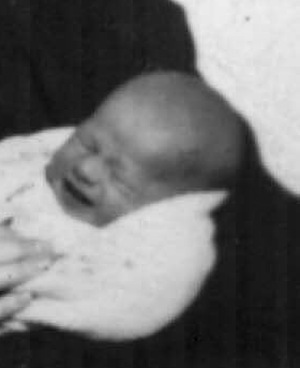
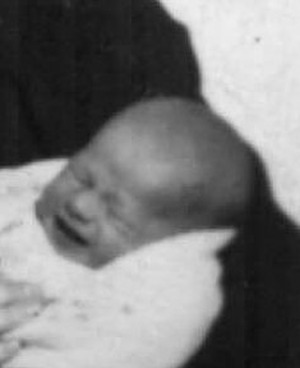
Amplía textos del árbol, centra las fotos y ajusta titulares

diff --git a/arbol-lamina.html b/arbol-lamina.html
@@ -9,20 +9,20 @@
 <div class="titulo"><span class="guion">Árbol familiar</span><small>Familia Ordovás</small></div>
 <img class="escudo" src="img/escudo-ordovas.png" alt="Escudo de los Ordovás">
 <svg class="conectores" viewBox="0 0 1600 1200"><g fill="none" stroke="#9aa89d" stroke-width="1.6"><path d="M194 190H300V440H194"/><path d="M300 315H390"/><path d="M194 690H300V940H194"/><path d="M300 815H390"/><path d="M490 315H590V815H490"/><path d="M590 565H646"/><path d="M1406 190H1300V440H1406"/><path d="M1300 315H1210"/><path d="M1406 690H1300V940H1406"/><path d="M1300 815H1210"/><path d="M1110 315H1010V815H1110"/><path d="M1010 565H954"/><path d="M800 802V850"/><path d="M580 850H1020"/><path d="M580 850V927"/><path d="M690 850V927"/><path d="M800 850V927"/><path d="M910 850V927"/><path d="M1020 850V927"/></g></svg>
-<div class="fig " style="left:50.0px;top:136.0px;width:200px"><div class="caja" style="width:88px;height:108px"><svg class="arco" width="180" height="200" viewBox="0 0 180 200" style="left:-46px;top:-46px"><path id="a1n" d="M76.3 160.9 A53.0 63.0 0 0 1 76.3 39.1" fill="none"/><text><textPath href="#a1n" startOffset="50%" text-anchor="middle">Belchite</textPath></text></svg><span class="ovalo" data-ini="AO" style="width:88px;height:108px"><img src="img/Agustin-Ordovas-Perun.jpg" alt="Agustín Ordovás Perún" style="object-view-box:inset(1% 30% 68% 30%)"></span></div><span class="rotulo"><b>Agustín Ordovás Perún</b></span></div>
-<div class="fig " style="left:50.0px;top:386.0px;width:200px"><div class="caja" style="width:88px;height:108px"><svg class="arco" width="180" height="200" viewBox="0 0 180 200" style="left:-46px;top:-46px"><path id="a2n" d="M76.3 160.9 A53.0 63.0 0 0 1 76.3 39.1" fill="none"/><text><textPath href="#a2n" startOffset="50%" text-anchor="middle">Magallón</textPath></text></svg><span class="ovalo" data-ini="DG" style="width:88px;height:108px"></span></div><span class="rotulo"><b>Dolores Galvete Terrén</b></span></div>
-<div class="fig " style="left:50.0px;top:636.0px;width:200px"><div class="caja" style="width:88px;height:108px"><svg class="arco" width="180" height="200" viewBox="0 0 180 200" style="left:-46px;top:-46px"><path id="a3n" d="M76.3 160.9 A53.0 63.0 0 0 1 76.3 39.1" fill="none"/><text><textPath href="#a3n" startOffset="50%" text-anchor="middle">5 abr 1864 · Madrid</textPath></text></svg><span class="ovalo" data-ini="MP" style="width:88px;height:108px"></span></div><span class="rotulo"><b>Manuel de la Peña Azcona</b></span></div>
-<div class="fig " style="left:50.0px;top:886.0px;width:200px"><div class="caja" style="width:88px;height:108px"><svg class="arco" width="180" height="200" viewBox="0 0 180 200" style="left:-46px;top:-46px"><path id="a4n" d="M76.3 160.9 A53.0 63.0 0 0 1 76.3 39.1" fill="none"/><text><textPath href="#a4n" startOffset="50%" text-anchor="middle">Nambroca</textPath></text></svg><span class="ovalo" data-ini="GR" style="width:88px;height:108px"></span></div><span class="rotulo"><b>Gila Rosa Gómez (de la Cerda)</b></span></div>
-<div class="fig " style="left:340.0px;top:253.0px;width:200px"><div class="caja" style="width:100px;height:124px"><svg class="arco" width="192" height="216" viewBox="0 0 192 216" style="left:-46px;top:-46px"><path id="a5n" d="M80.7 176.6 A59.0 71.0 0 0 1 80.7 39.4" fill="none"/><text><textPath href="#a5n" startOffset="50%" text-anchor="middle">16 jun 1882 · Belchite</textPath></text></svg><span class="ovalo" data-ini="JM" style="width:100px;height:124px"><img src="img/Jesus-Maria-Ordovas-Galvete.jpg" alt="Jesús M.ª Ordovás Galvete" style="object-view-box:inset(3% 31% 65.4% 19%)"></span></div><span class="rotulo"><b>Jesús M.ª Ordovás Galvete</b></span></div>
-<div class="fig " style="left:340.0px;top:753.0px;width:200px"><div class="caja" style="width:100px;height:124px"><svg class="arco" width="192" height="216" viewBox="0 0 192 216" style="left:-46px;top:-46px"><path id="a6n" d="M80.7 176.6 A59.0 71.0 0 0 1 80.7 39.4" fill="none"/><text><textPath href="#a6n" startOffset="50%" text-anchor="middle">7 ene 1888 · Madrid</textPath></text></svg><span class="ovalo" data-ini="CP" style="width:100px;height:124px"><img src="img/Cristina-de-la-Pena-Gomez.jpg" alt="Cristina de la Peña Gómez" style="object-view-box:inset(6% 22% 66% 32%)"></span></div><span class="rotulo"><b>Cristina de la Peña Gómez</b></span></div>
-<div class="fig " style="left:1350.0px;top:136.0px;width:200px"><div class="caja" style="width:88px;height:108px"><svg class="arco" width="180" height="200" viewBox="0 0 180 200" style="left:-46px;top:-46px"><path id="a7n" d="M103.7 39.1 A53.0 63.0 0 0 1 103.7 160.9" fill="none"/><text><textPath href="#a7n" startOffset="50%" text-anchor="middle">Sepúlveda de la Sierra</textPath></text></svg><span class="ovalo" data-ini="JB" style="width:88px;height:108px"></span></div><span class="rotulo"><b>Juan Blasco García</b></span></div>
-<div class="fig " style="left:1350.0px;top:386.0px;width:200px"><div class="caja" style="width:88px;height:108px"><svg class="arco" width="180" height="200" viewBox="0 0 180 200" style="left:-46px;top:-46px"><path id="a8n" d="M103.7 39.1 A53.0 63.0 0 0 1 103.7 160.9" fill="none"/><text><textPath href="#a8n" startOffset="50%" text-anchor="middle">1866 · Calatayud</textPath></text><path id="a8d" d="M76.3 160.9 A53.0 63.0 0 0 1 76.3 39.1" fill="none"/><text><textPath href="#a8d" startOffset="50%" text-anchor="middle">† 3 feb 1952 · Calatayud</textPath></text></svg><span class="ovalo" data-ini="CY" style="width:88px;height:108px"></span></div><span class="rotulo"><b>Cayetana Yagüe García</b></span></div>
-<div class="fig " style="left:1350.0px;top:636.0px;width:200px"><div class="caja" style="width:88px;height:108px"><svg class="arco" width="180" height="200" viewBox="0 0 180 200" style="left:-46px;top:-46px"><path id="a9n" d="M103.7 39.1 A53.0 63.0 0 0 1 103.7 160.9" fill="none"/><text><textPath href="#a9n" startOffset="50%" text-anchor="middle">1860 · Calatayud</textPath></text></svg><span class="ovalo" data-ini="MY" style="width:88px;height:108px"></span></div><span class="rotulo"><b>Mariano Yagüe Maluenda</b></span></div>
-<div class="fig " style="left:1350.0px;top:886.0px;width:200px"><div class="caja" style="width:88px;height:108px"><svg class="arco" width="180" height="200" viewBox="0 0 180 200" style="left:-46px;top:-46px"><path id="a10n" d="M103.7 39.1 A53.0 63.0 0 0 1 103.7 160.9" fill="none"/><text><textPath href="#a10n" startOffset="50%" text-anchor="middle">1864 · Calatayud</textPath></text></svg><span class="ovalo" data-ini="DA" style="width:88px;height:108px"></span></div><span class="rotulo"><b>Dolores Arrué Díaz</b></span></div>
-<div class="fig " style="left:1060.0px;top:253.0px;width:200px"><div class="caja" style="width:100px;height:124px"><svg class="arco" width="192" height="216" viewBox="0 0 192 216" style="left:-46px;top:-46px"><path id="a11n" d="M111.3 39.4 A59.0 71.0 0 0 1 111.3 176.6" fill="none"/><text><textPath href="#a11n" startOffset="50%" text-anchor="middle">11 jun 1888 · Calatayud</textPath></text></svg><span class="ovalo" data-ini="BB" style="width:100px;height:124px"><img src="img/Bernabe-Blasco-Yague.jpg" alt="Bernabé Blasco Yagüe" style="object-view-box:inset(0 30% 66% 30%)"></span></div><span class="rotulo"><b>Bernabé Blasco Yagüe</b></span></div>
-<div class="fig " style="left:1060.0px;top:753.0px;width:200px"><div class="caja" style="width:100px;height:124px"><svg class="arco" width="192" height="216" viewBox="0 0 192 216" style="left:-46px;top:-46px"><path id="a12n" d="M111.3 39.4 A59.0 71.0 0 0 1 111.3 176.6" fill="none"/><text><textPath href="#a12n" startOffset="50%" text-anchor="middle">31 ene 1888 · Calatayud</textPath></text><path id="a12d" d="M80.7 176.6 A59.0 71.0 0 0 1 80.7 39.4" fill="none"/><text><textPath href="#a12d" startOffset="50%" text-anchor="middle">† 27 nov 1978 · Madrid</textPath></text></svg><span class="ovalo" data-ini="JY" style="width:100px;height:124px"><img src="img/Josefa-Yague-Arrue-ovalo.jpg" alt="Josefa Yagüe Arrué" style="object-view-box:inset(0 0 0 0)"></span></div><span class="rotulo"><b>Josefa Yagüe Arrué</b></span></div>
-<div class="fig centro" style="left:605.0px;top:498.0px;width:190px"><div class="caja" style="width:108px;height:134px"><svg class="arco" width="200" height="226" viewBox="0 0 200 226" style="left:-46px;top:-46px"><path id="a13n" d="M116.3 39.6 A63.0 76.0 0 0 1 116.3 186.4" fill="none"/><text><textPath href="#a13n" startOffset="50%" text-anchor="middle">1912 · Madrid</textPath></text><path id="a13d" d="M83.7 186.4 A63.0 76.0 0 0 1 83.7 39.6" fill="none"/><text><textPath href="#a13d" startOffset="50%" text-anchor="middle">† 1965 · Madrid</textPath></text></svg><span class="ovalo" data-ini="MO" style="width:108px;height:134px"><img src="img/Manuel-padre-ovalo.jpg" alt="Manuel Ordovás de la Peña" style="object-view-box:inset(0 0 0 0)"></span></div><span class="rotulo"><b>Manuel Ordovás de la Peña</b></span></div>
-<div class="fig centro" style="left:805.0px;top:498.0px;width:190px"><div class="caja" style="width:108px;height:134px"><svg class="arco" width="200" height="226" viewBox="0 0 200 226" style="left:-46px;top:-46px"><path id="a14n" d="M83.7 186.4 A63.0 76.0 0 0 1 83.7 39.6" fill="none"/><text><textPath href="#a14n" startOffset="50%" text-anchor="middle">9 abr 1915 · Zaragoza</textPath></text><path id="a14d" d="M116.3 39.6 A63.0 76.0 0 0 1 116.3 186.4" fill="none"/><text><textPath href="#a14d" startOffset="50%" text-anchor="middle">† 5 jul 2007 · Madrid</textPath></text></svg><span class="ovalo" data-ini="CB" style="width:108px;height:134px"><img src="img/Carmen-madre-ovalo.jpg" alt="Carmen Blasco Yagüe" style="object-view-box:inset(0 0 0 0)"></span></div><span class="rotulo"><b>Carmen Blasco Yagüe</b></span></div>
+<div class="fig " style="left:50.0px;top:136.0px;width:200px"><div class="caja" style="width:88px;height:108px"><svg class="arco" width="180" height="200" viewBox="0 0 180 200" style="left:-46px;top:-46px"><path id="a1n" d="M82.6 162.4 A53.0 63.0 0 0 1 82.6 37.6" fill="none"/><text><textPath href="#a1n" startOffset="50%" text-anchor="middle">Belchite</textPath></text></svg><span class="ovalo" data-ini="AO" style="width:88px;height:108px"><img src="img/Agustin-Ordovas-Perun.jpg" alt="Agustín Ordovás Perún" style="object-view-box:inset(1% 30% 68% 30%)"></span></div><span class="rotulo"><b>Agustín Ordovás Perún</b></span></div>
+<div class="fig " style="left:50.0px;top:386.0px;width:200px"><div class="caja" style="width:88px;height:108px"><svg class="arco" width="180" height="200" viewBox="0 0 180 200" style="left:-46px;top:-46px"><path id="a2n" d="M82.6 162.4 A53.0 63.0 0 0 1 82.6 37.6" fill="none"/><text><textPath href="#a2n" startOffset="50%" text-anchor="middle">Magallón</textPath></text></svg><span class="ovalo" data-ini="DG" style="width:88px;height:108px"></span></div><span class="rotulo"><b>Dolores Galvete Terrén</b></span></div>
+<div class="fig " style="left:50.0px;top:636.0px;width:200px"><div class="caja" style="width:88px;height:108px"><svg class="arco" width="180" height="200" viewBox="0 0 180 200" style="left:-46px;top:-46px"><path id="a3n" d="M82.6 162.4 A53.0 63.0 0 0 1 82.6 37.6" fill="none"/><text><textPath href="#a3n" startOffset="50%" text-anchor="middle">5 abr 1864 · Madrid</textPath></text></svg><span class="ovalo" data-ini="MP" style="width:88px;height:108px"></span></div><span class="rotulo"><b>Manuel de la Peña Azcona</b></span></div>
+<div class="fig " style="left:50.0px;top:886.0px;width:200px"><div class="caja" style="width:88px;height:108px"><svg class="arco" width="180" height="200" viewBox="0 0 180 200" style="left:-46px;top:-46px"><path id="a4n" d="M82.6 162.4 A53.0 63.0 0 0 1 82.6 37.6" fill="none"/><text><textPath href="#a4n" startOffset="50%" text-anchor="middle">Nambroca</textPath></text></svg><span class="ovalo" data-ini="GR" style="width:88px;height:108px"></span></div><span class="rotulo"><b>Gila Rosa Gómez (de la Cerda)</b></span></div>
+<div class="fig " style="left:340.0px;top:253.0px;width:200px"><div class="caja" style="width:100px;height:124px"><svg class="arco" width="192" height="216" viewBox="0 0 192 216" style="left:-46px;top:-46px"><path id="a5n" d="M87.8 178.3 A59.0 71.0 0 0 1 87.8 37.7" fill="none"/><text><textPath href="#a5n" startOffset="50%" text-anchor="middle">16 jun 1882 · Belchite</textPath></text></svg><span class="ovalo" data-ini="JM" style="width:100px;height:124px"><img src="img/Jesus-Maria-Ordovas-Galvete.jpg" alt="Jesús M.ª Ordovás Galvete" style="object-view-box:inset(3% 31% 65.4% 19%)"></span></div><span class="rotulo"><b>Jesús M.ª Ordovás Galvete</b></span></div>
+<div class="fig " style="left:340.0px;top:753.0px;width:200px"><div class="caja" style="width:100px;height:124px"><svg class="arco" width="192" height="216" viewBox="0 0 192 216" style="left:-46px;top:-46px"><path id="a6n" d="M87.8 178.3 A59.0 71.0 0 0 1 87.8 37.7" fill="none"/><text><textPath href="#a6n" startOffset="50%" text-anchor="middle">7 ene 1888 · Madrid</textPath></text></svg><span class="ovalo" data-ini="CP" style="width:100px;height:124px"><img src="img/Cristina-de-la-Pena-Gomez.jpg" alt="Cristina de la Peña Gómez" style="object-view-box:inset(6% 15% 66% 39%)"></span></div><span class="rotulo"><b>Cristina de la Peña Gómez</b></span></div>
+<div class="fig " style="left:1350.0px;top:136.0px;width:200px"><div class="caja" style="width:88px;height:108px"><svg class="arco" width="180" height="200" viewBox="0 0 180 200" style="left:-46px;top:-46px"><path id="a7n" d="M97.4 37.6 A53.0 63.0 0 0 1 97.4 162.4" fill="none"/><text><textPath href="#a7n" startOffset="50%" text-anchor="middle">Sepúlveda de la Sierra</textPath></text></svg><span class="ovalo" data-ini="JB" style="width:88px;height:108px"></span></div><span class="rotulo"><b>Juan Blasco García</b></span></div>
+<div class="fig " style="left:1350.0px;top:386.0px;width:200px"><div class="caja" style="width:88px;height:108px"><svg class="arco" width="180" height="200" viewBox="0 0 180 200" style="left:-46px;top:-46px"><path id="a8n" d="M97.4 37.6 A53.0 63.0 0 0 1 97.4 162.4" fill="none"/><text><textPath href="#a8n" startOffset="50%" text-anchor="middle">1866 · Calatayud</textPath></text><path id="a8d" d="M82.6 162.4 A53.0 63.0 0 0 1 82.6 37.6" fill="none"/><text><textPath href="#a8d" startOffset="50%" text-anchor="middle">† 3 feb 1952 · Calatayud</textPath></text></svg><span class="ovalo" data-ini="CY" style="width:88px;height:108px"></span></div><span class="rotulo"><b>Cayetana Yagüe García</b></span></div>
+<div class="fig " style="left:1350.0px;top:636.0px;width:200px"><div class="caja" style="width:88px;height:108px"><svg class="arco" width="180" height="200" viewBox="0 0 180 200" style="left:-46px;top:-46px"><path id="a9n" d="M97.4 37.6 A53.0 63.0 0 0 1 97.4 162.4" fill="none"/><text><textPath href="#a9n" startOffset="50%" text-anchor="middle">1860 · Calatayud</textPath></text></svg><span class="ovalo" data-ini="MY" style="width:88px;height:108px"></span></div><span class="rotulo"><b>Mariano Yagüe Maluenda</b></span></div>
+<div class="fig " style="left:1350.0px;top:886.0px;width:200px"><div class="caja" style="width:88px;height:108px"><svg class="arco" width="180" height="200" viewBox="0 0 180 200" style="left:-46px;top:-46px"><path id="a10n" d="M97.4 37.6 A53.0 63.0 0 0 1 97.4 162.4" fill="none"/><text><textPath href="#a10n" startOffset="50%" text-anchor="middle">1864 · Calatayud</textPath></text></svg><span class="ovalo" data-ini="DA" style="width:88px;height:108px"></span></div><span class="rotulo"><b>Dolores Arrué Díaz</b></span></div>
+<div class="fig " style="left:1060.0px;top:253.0px;width:200px"><div class="caja" style="width:100px;height:124px"><svg class="arco" width="192" height="216" viewBox="0 0 192 216" style="left:-46px;top:-46px"><path id="a11n" d="M104.2 37.7 A59.0 71.0 0 0 1 104.2 178.3" fill="none"/><text><textPath href="#a11n" startOffset="50%" text-anchor="middle">11 jun 1888 · Calatayud</textPath></text></svg><span class="ovalo" data-ini="BB" style="width:100px;height:124px"><img src="img/Bernabe-Blasco-Yague.jpg" alt="Bernabé Blasco Yagüe" style="object-view-box:inset(0 30% 66% 30%)"></span></div><span class="rotulo"><b>Bernabé Blasco Yagüe</b></span></div>
+<div class="fig " style="left:1060.0px;top:753.0px;width:200px"><div class="caja" style="width:100px;height:124px"><svg class="arco" width="192" height="216" viewBox="0 0 192 216" style="left:-46px;top:-46px"><path id="a12n" d="M104.2 37.7 A59.0 71.0 0 0 1 104.2 178.3" fill="none"/><text><textPath href="#a12n" startOffset="50%" text-anchor="middle">31 ene 1888 · Calatayud</textPath></text><path id="a12d" d="M87.8 178.3 A59.0 71.0 0 0 1 87.8 37.7" fill="none"/><text><textPath href="#a12d" startOffset="50%" text-anchor="middle">† 27 nov 1978 · Madrid</textPath></text></svg><span class="ovalo" data-ini="JY" style="width:100px;height:124px"><img src="img/Josefa-Yague-Arrue-ovalo.jpg" alt="Josefa Yagüe Arrué" style="object-view-box:inset(10% 0 10% 20%)"></span></div><span class="rotulo"><b>Josefa Yagüe Arrué</b></span></div>
+<div class="fig centro" style="left:605.0px;top:498.0px;width:190px"><div class="caja" style="width:108px;height:134px"><svg class="arco" width="200" height="226" viewBox="0 0 200 226" style="left:-46px;top:-46px"><path id="a13n" d="M108.8 37.7 A63.0 76.0 0 0 1 108.8 188.3" fill="none"/><text><textPath href="#a13n" startOffset="50%" text-anchor="middle">1912 · Madrid</textPath></text><path id="a13d" d="M91.2 188.3 A63.0 76.0 0 0 1 91.2 37.7" fill="none"/><text><textPath href="#a13d" startOffset="50%" text-anchor="middle">† 1965 · Madrid</textPath></text></svg><span class="ovalo" data-ini="MO" style="width:108px;height:134px"><img src="img/Manuel-padre-ovalo.jpg" alt="Manuel Ordovás de la Peña" style="object-view-box:inset(5% 0 5% 10%)"></span></div><span class="rotulo"><b>Manuel Ordovás de la Peña</b></span></div>
+<div class="fig centro" style="left:805.0px;top:498.0px;width:190px"><div class="caja" style="width:108px;height:134px"><svg class="arco" width="200" height="226" viewBox="0 0 200 226" style="left:-46px;top:-46px"><path id="a14n" d="M91.2 188.3 A63.0 76.0 0 0 1 91.2 37.7" fill="none"/><text><textPath href="#a14n" startOffset="50%" text-anchor="middle">9 abr 1915 · Zaragoza</textPath></text><path id="a14d" d="M108.8 37.7 A63.0 76.0 0 0 1 108.8 188.3" fill="none"/><text><textPath href="#a14d" startOffset="50%" text-anchor="middle">† 5 jul 2007 · Madrid</textPath></text></svg><span class="ovalo" data-ini="CB" style="width:108px;height:134px"><img src="img/Carmen-madre-ovalo.jpg" alt="Carmen Blasco Yagüe" style="object-view-box:inset(0 0 0 0)"></span></div><span class="rotulo"><b>Carmen Blasco Yagüe</b></span></div>
 <div class="fig hijo" style="left:515.0px;top:927.0px;width:130px"><div class="caja" style="width:84px;height:106px"><span class="ovalo" data-ini="E" style="width:84px;height:106px"><img src="img/Eduardo-ovalo.jpg" alt="Eduardo" style="object-view-box:inset(0 0 0 0)"></span></div><span class="rotulo"><b>Eduardo</b><small>n. El Ferrol<br>7 may 1943<br>† 2 dic 2019</small></span></div>
 <div class="fig hijo" style="left:625.0px;top:927.0px;width:130px"><div class="caja" style="width:84px;height:106px"><span class="ovalo" data-ini="R" style="width:84px;height:106px"><img src="img/Rafael-ovalo.jpg" alt="Rafael" style="object-view-box:inset(0 0 0 0)"></span></div><span class="rotulo"><b>Rafael</b><small>n. El Ferrol<br>2 nov 1944<br>† 27 sep 2019</small></span></div>
 <div class="fig hijo" style="left:735.0px;top:927.0px;width:130px"><div class="caja" style="width:84px;height:106px"><span class="ovalo" data-ini="J" style="width:84px;height:106px"><img src="img/Jesus-ovalo.jpg" alt="Jesús" style="object-view-box:inset(0 0 0 0)"></span></div><span class="rotulo"><b>Jesús</b><small>n. El Ferrol<br>28 nov 1947</small></span></div>

diff --git a/css/lamina.css b/css/lamina.css
@@ -6,22 +6,22 @@ html, body { margin: 0; background: #fff; }
 .guion { display: block; font-family: "Pinyon Script", "Cormorant Garamond", cursive; font-size: 84px; line-height: 1.05; }
 .titulo small, .boda small { display: block; font-size: 16px; letter-spacing: .34em; text-transform: uppercase; color: #a8864a; font-weight: 700; }
 .titulo small { margin-top: 34px; }
-.escudo { position: absolute; left: 725px; top: 290px; width: 150px; height: auto; }
+.escudo { position: absolute; left: 725px; top: 222px; width: 150px; height: auto; }
 .arbolito { position: absolute; left: 655px; top: 150px; width: 290px; height: 330px; }
 .conectores { position: absolute; left: 0; top: 0; width: 1600px; height: 1200px; }
 .fig { position: absolute; text-align: center; text-decoration: none; color: inherit; }
 .caja { position: relative; margin: 0 auto; }
 .arco { position: absolute; overflow: visible; }
-.arco text { font-size: 12.5px; font-style: italic; fill: #5d4e3f; stroke: #fff; stroke-width: 4px; paint-order: stroke; stroke-linejoin: round; }
+.arco text { font-size: 15.5px; font-style: italic; fill: #5d4e3f; stroke: #fff; stroke-width: 4px; paint-order: stroke; stroke-linejoin: round; }
 .ovalo { position: absolute; inset: 0; display: block; border-radius: 50%; overflow: hidden; background: #f1f3f1; box-shadow: 0 0 0 4px #fff, 0 0 0 6px #7f9487; }
 .ovalo img { width: 100%; height: 100%; object-fit: cover; filter: grayscale(1) contrast(1.05); }
 .ovalo.giro90 img { position: absolute; width: 134px; height: 108px; left: -13px; top: 13px; transform: rotate(90deg); }
 .rotulo { display: block; margin-top: 16px; line-height: 1.12; }
 .rotulo b { display: block; font-size: 20px; font-weight: 700; }
-.rotulo small { display: block; font-size: 15px; font-style: italic; color: #5d4e3f; margin-top: 3px; }
+.rotulo small { display: block; font-size: 17.5px; font-style: italic; color: #5d4e3f; margin-top: 3px; }
 .fig.centro .rotulo b { font-size: 22px; }
 .fig.hijo .rotulo b { font-size: 19px; }
-.fig.hijo .rotulo small { white-space: nowrap; font-size: 14px; }
+.fig.hijo .rotulo small { white-space: nowrap; font-size: 16.5px; }
 .fig.autor .ovalo { box-shadow: 0 0 0 4px #fff, 0 0 0 6px #7b2d2d; }
 .boda { position: absolute; left: 0; width: 1600px; top: 724px; text-align: center; }
 .boda .guion { font-size: 40px; }

diff --git a/index.html b/index.html
@@ -49,7 +49,7 @@
     <h2>El árbol familiar</h2>
     <p>Nombres, lugares y fechas de nacimiento y defunción de cuatro generaciones.</p>
   </div>
-  <figure class="lamina-web" hidden><div class="lamina-scroll"><a href="img/arbol-genealogico.png?v=8" target="_blank" rel="noopener"><img src="img/arbol-genealogico.png?v=8" alt="Árbol genealógico de la familia Ordovás: Manuel Ordovás de la Peña y Carmen Blasco Yagüe en el centro, sus ascendientes a ambos lados y sus hijos Eduardo, Rafael, Jesús, Manuel y José Luis debajo"></a></div><figcaption><span class="solo-ordenador">Pulsa en la imagen para verla a tamaño completo</span><span class="solo-movil">Desliza para recorrer el árbol. Pulsa en la imagen para verla a pantalla completa y ampliarla.</span></figcaption></figure>
+  <figure class="lamina-web" hidden><div class="lamina-scroll"><a href="img/arbol-genealogico.png?v=9" target="_blank" rel="noopener"><img src="img/arbol-genealogico.png?v=9" alt="Árbol genealógico de la familia Ordovás: Manuel Ordovás de la Peña y Carmen Blasco Yagüe en el centro, sus ascendientes a ambos lados y sus hijos Eduardo, Rafael, Jesús, Manuel y José Luis debajo"></a></div><figcaption><span class="solo-ordenador">Pulsa en la imagen para verla a tamaño completo</span><span class="solo-movil">Desliza para recorrer el árbol. Pulsa en la imagen para verla a pantalla completa y ampliarla.</span></figcaption></figure>
   <div class="tablero-marco reveal"><div class="tablero">
     <div class="tablero-titulo"><span class="guion">Familia Ordovás</span><small>Cuatro generaciones</small></div>
 
